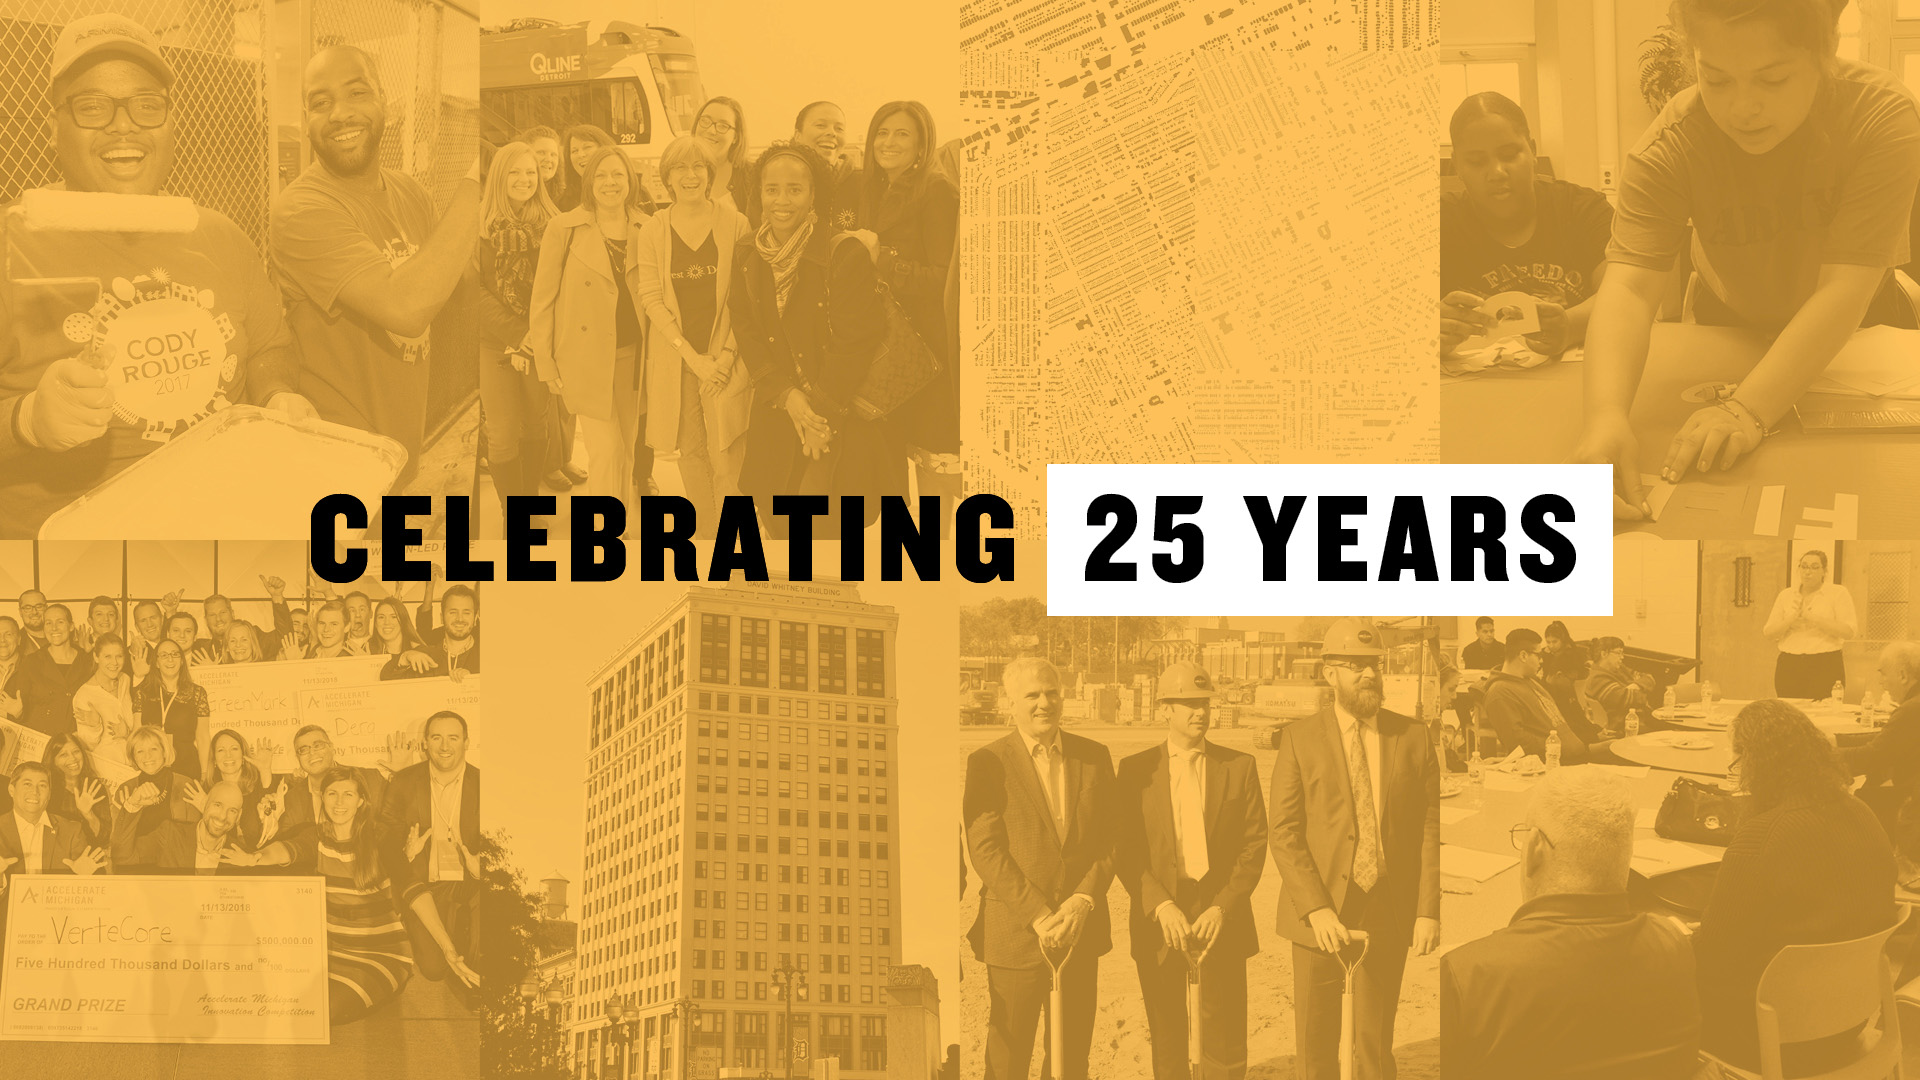
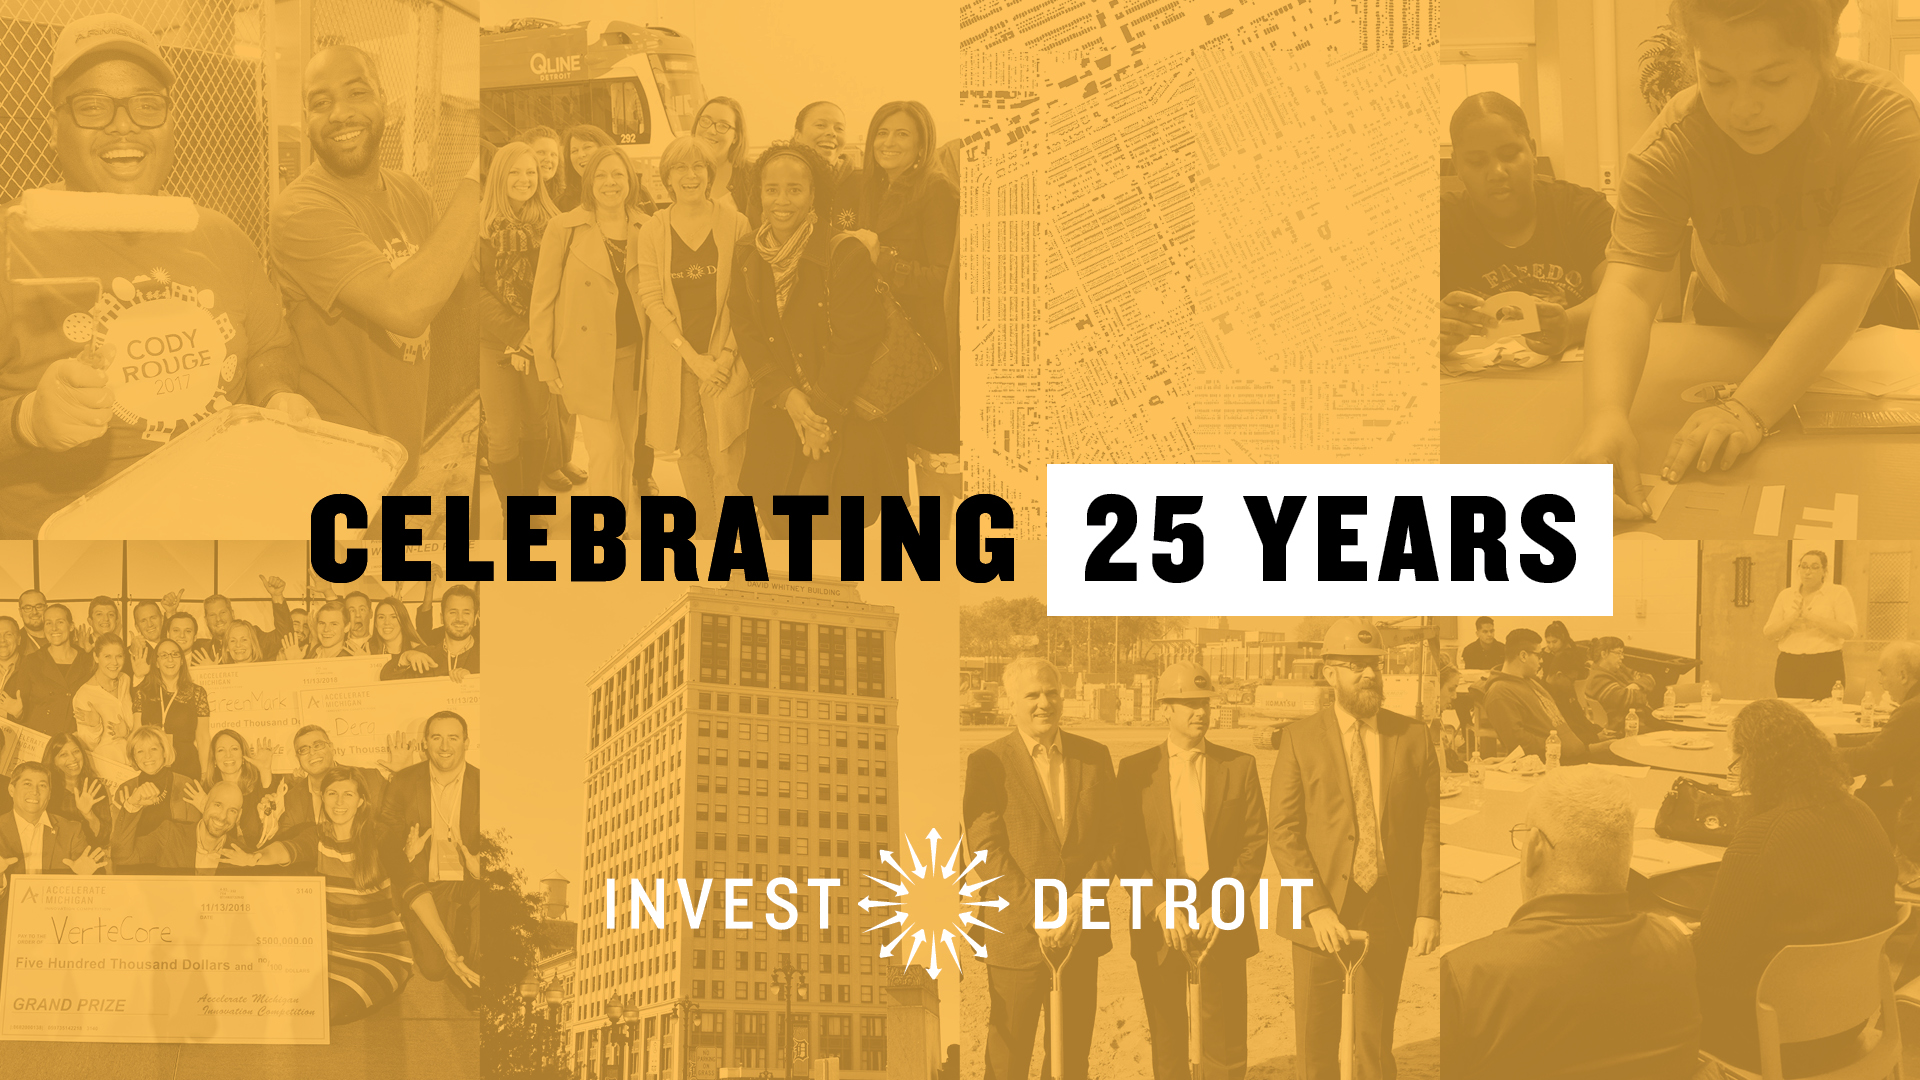
:bento: og image again; :seo: GA tracking id

Changed region(s): [[0.3125, 0.7639, 0.6875, 0.9167]]

diff --git a/src/App.js b/src/App.js
@@ -12,7 +12,7 @@ import Home from './pages/Home';
 import ScrollToTop from './components/ScrollToTop';
 
 const App = () => {
-  const TRACKING_ID = '';
+  const TRACKING_ID = 'UA-198999887-1';
   ReactGA.initialize(TRACKING_ID);
 
   return (
